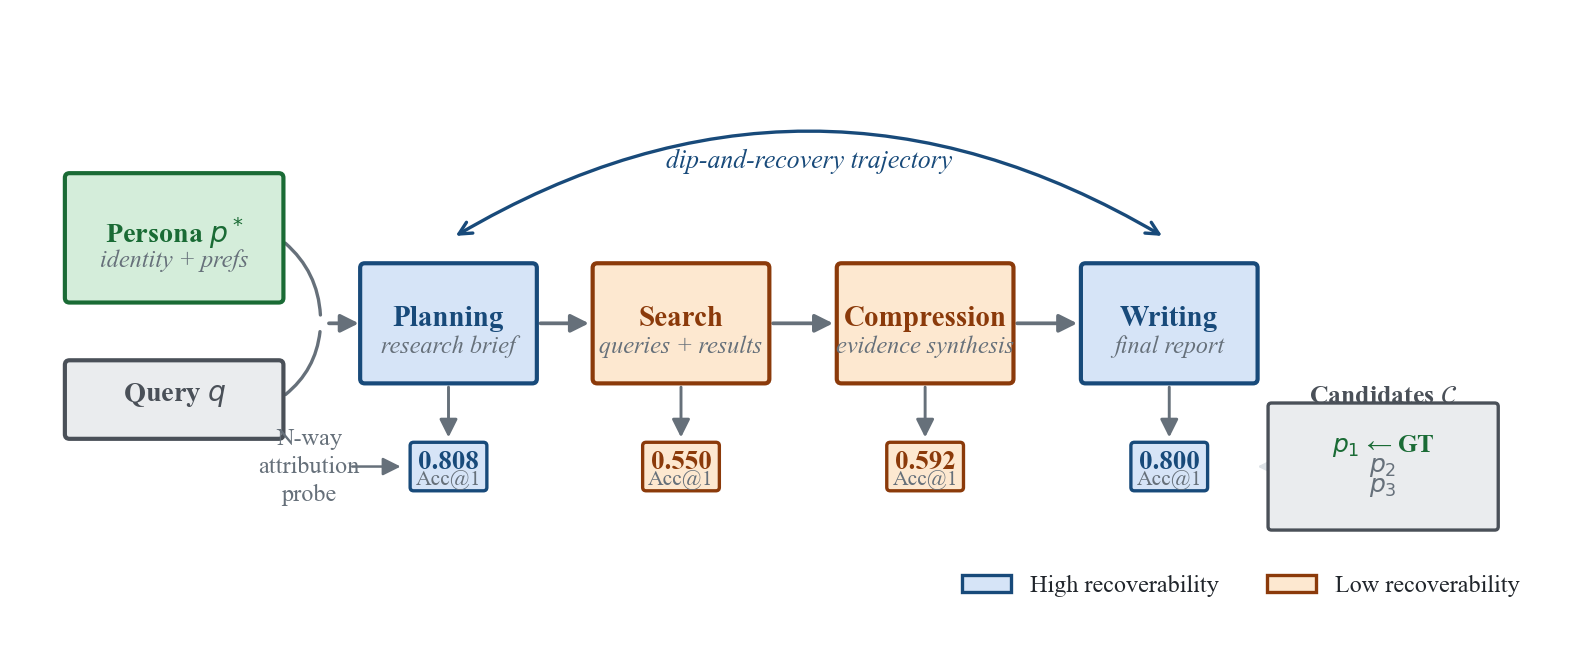
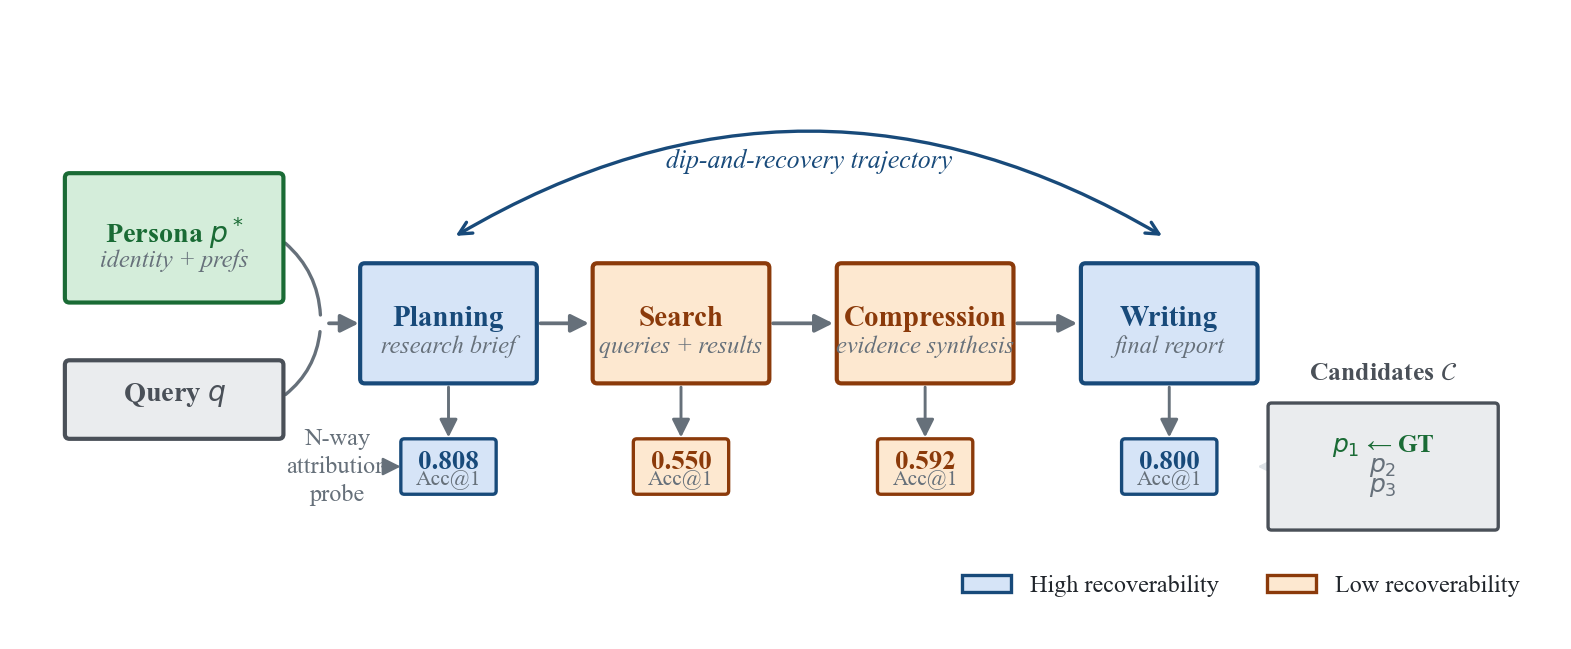
fix Figure 1: widen probe boxes, shift N-way label, lift Candidates C title

diff --git a/scripts/plot_pipeline_overview.py b/scripts/plot_pipeline_overview.py
@@ -53,7 +53,7 @@ def _arrow(ax, x0, y0, x1, y1, color=MUTED, lw=1.0):
 def _probe_box(ax, x, y, acc, is_low=False):
     fc = ORANGE_LIGHT if is_low else BLUE_LIGHT
     ec = ORANGE_DARK  if is_low else BLUE_DARK
-    w, h = 0.30, 0.18
+    w, h = 0.38, 0.21
     box = FancyBboxPatch(
         (x - w / 2, y - h / 2), w, h,
         boxstyle="round,pad=0.015",
@@ -133,10 +133,10 @@ def main():
         _probe_box(ax, sx, probe_y, acc, is_low=isl)
 
     # "N-way attribution" label left of probes
-    ax.text(1.20, probe_y, "N-way\nattribution\nprobe",
+    ax.text(1.32, probe_y, "N-way\nattribution\nprobe",
             ha="center", va="center", fontsize=5.8, color=MUTED,
             linespacing=1.35)
-    _arrow(ax, 1.35, probe_y, 1.63, probe_y, color=MUTED, lw=0.6)
+    _arrow(ax, 1.48, probe_y, 1.63, probe_y, color=MUTED, lw=0.6)
 
     # ── Candidate set ─────────────────────────────────────────────────────────
     cand_x, cand_y = 5.82, probe_y
@@ -154,7 +154,7 @@ def main():
                 ha="center", va="center", fontsize=6.0, color=col,
                 fontweight=fw, zorder=4)
 
-    ax.text(cand_x, cand_y + 0.30, "Candidates $\\mathcal{C}$",
+    ax.text(cand_x, cand_y + 0.40, "Candidates $\\mathcal{C}$",
             ha="center", va="center", fontsize=6.2, color=GREY_DARK,
             fontweight="bold", zorder=4)
 
